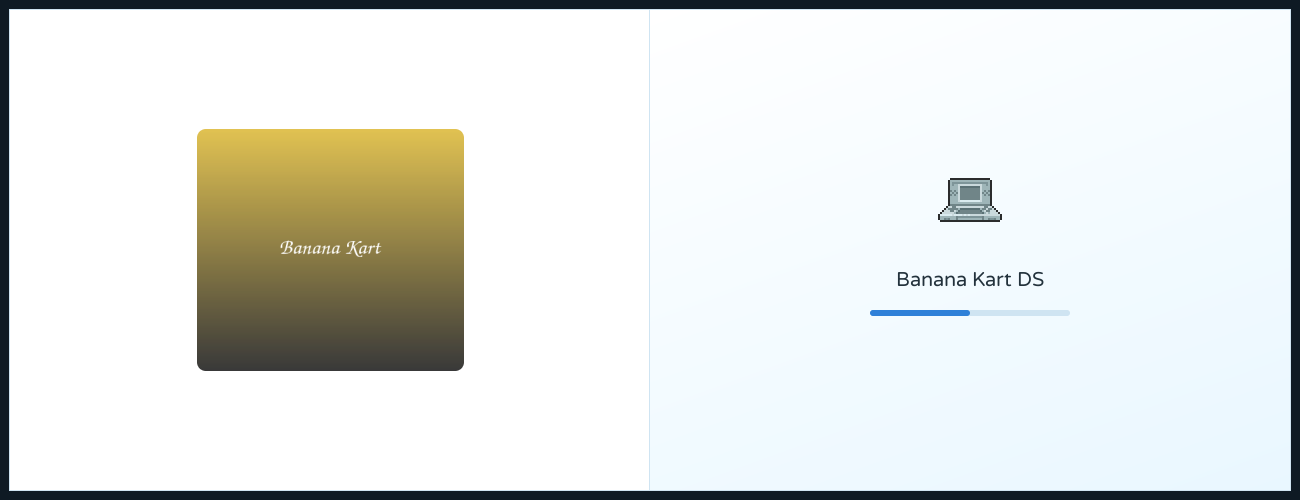
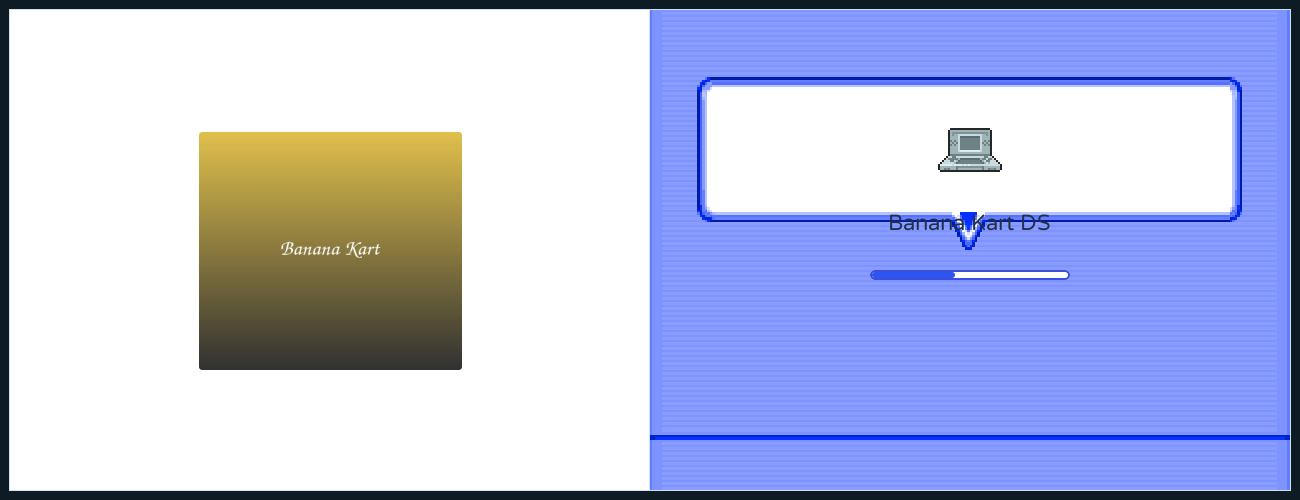
DSi Menu: the actual DSi look, from TWiLightMenu++'s Default Blue skin
The first pass was a light-blue carousel with a bubble; it looked like neither
the DSi menu nor TWiLightMenu. This one uses the DSi's own artwork and layout.

- The striped periwinkle backgrounds (the top one plain, the bottom one with
  the white title bubble baked in), the L/R shoulder tabs and the volume icon
  are the Default Blue DSi skin from DS-Homebrew/twlmenu-extras (GPL-3.0),
  converted to 640x480 PNGs.
- Top screen: the volume/date/clock/battery bar, the box art in the DSi's
  white frame with its teal matte, the L Previous / Next R tabs along the
  bottom.
- Bottom screen: the bubble with the title and maker, the beveled app tiles
  with a blue START bar under the selection, and the DSi's blue page bar with
  end arrows and a page-count thumb.
- Launch keeps the white DSi flash and the growing box art.

Credits and the Nintendo-trademark note are in the README.

diff --git a/README.md b/README.md
@@ -46,12 +46,13 @@ draws. Top screen on the left, bottom on the right.)*
 
 ## DSi Menu
 
-The Nintendo DSi's white-and-blue menu, adapted to BananaOS's two screens. The top screen is the DSi's photo view:
-the selected system's or game's art in a white frame, its title in the DSi's white speech bubble. The bottom screen
-is the DSi's app shelf: one eased row of icon bubbles, the selection grown into the middle, the page count, the
-DSi's thin scrollbar, and the button hints along the bottom. Soft blues, rounded type (Varela Round) and no noise.
+The Nintendo DSi's app menu, adapted to BananaOS's two screens. The top screen is the DSi's: a box art in the white
+frame over the striped blue, the L and R tabs along its bottom, the volume, date, clock and battery in the bar. The
+bottom screen is the DSi's shelf: the white speech bubble with the title and maker, the row of beveled app tiles with
+**START** under the selection, and the blue page bar with its arrows and page count. Rounded type (Varela Round),
+the DSi's periwinkle stripes and no noise.
 
-📄 [`dsi.json`](dsi.json) · 🖼 [`dsi/bubble.png`](dsi/bubble.png) · 🔤 [`dsi/VarelaRound-Regular.ttf`](dsi/VarelaRound-Regular.ttf)
+📄 [`dsi.json`](dsi.json) · 🖼 [`dsi/bg-top.png`](dsi/bg-top.png) · 🔤 [`dsi/VarelaRound-Regular.ttf`](dsi/VarelaRound-Regular.ttf)
 
 Home — the selected system on the photo screen, the shelf on the bottom:
 
@@ -92,11 +93,12 @@ some popular retro fonts are proprietary and can't be redistributed.
   and its [`MorePerfectDOSVGA.ttf`](retroism/MorePerfectDOSVGA.ttf) font, and draws the screens with BananaOS's
   own elements. Thanks to its authors.
 - The wallpaper in `retroism/` is the theme author's own.
-- **DSi Menu**'s title bubble (`dsi/bubble.png`) is from
-  **[TWiLightMenu++](https://github.com/DS-Homebrew/TWiLightMenu)** by DS-Homebrew and contributors
-  (`romsel_dsimenutheme/resources/bubble.bmp`, GPL-3.0), with its magenta key made transparent; the rest of the
-  theme is drawn by BananaOS's elements. TWiLightMenu++ recreates the Nintendo DSi Menu; Nintendo DSi, the DSi Menu
-  design and its name are Nintendo's, this is a fan-made look-alike, and no firmware or ROM data is included.
+- **DSi Menu**'s striped backgrounds (with the title bubble), L and R tabs, volume icon and palette are from
+  **[TWiLightMenu++](https://github.com/DS-Homebrew/TWiLightMenu)**'s "Default Blue" DSi skin by RocketRobz and
+  DS-Homebrew ([`twlmenu-extras`](https://github.com/DS-Homebrew/twlmenu-extras), GPL-3.0), converted to 640×480
+  PNGs; the frames, tiles, page bar and text are drawn by BananaOS's own elements. TWiLightMenu++ recreates the
+  Nintendo DSi Menu; Nintendo DSi, the DSi Menu design and its name are Nintendo's, this is a fan-made look-alike,
+  and no firmware or ROM data is included.
 - The DSi Menu theme's text is **[Varela Round](https://github.com/alefalefalef/Varela-Round)** by the Varela Round
   Project Authors, SIL Open Font License 1.1 (`dsi/OFL.txt`).
 
